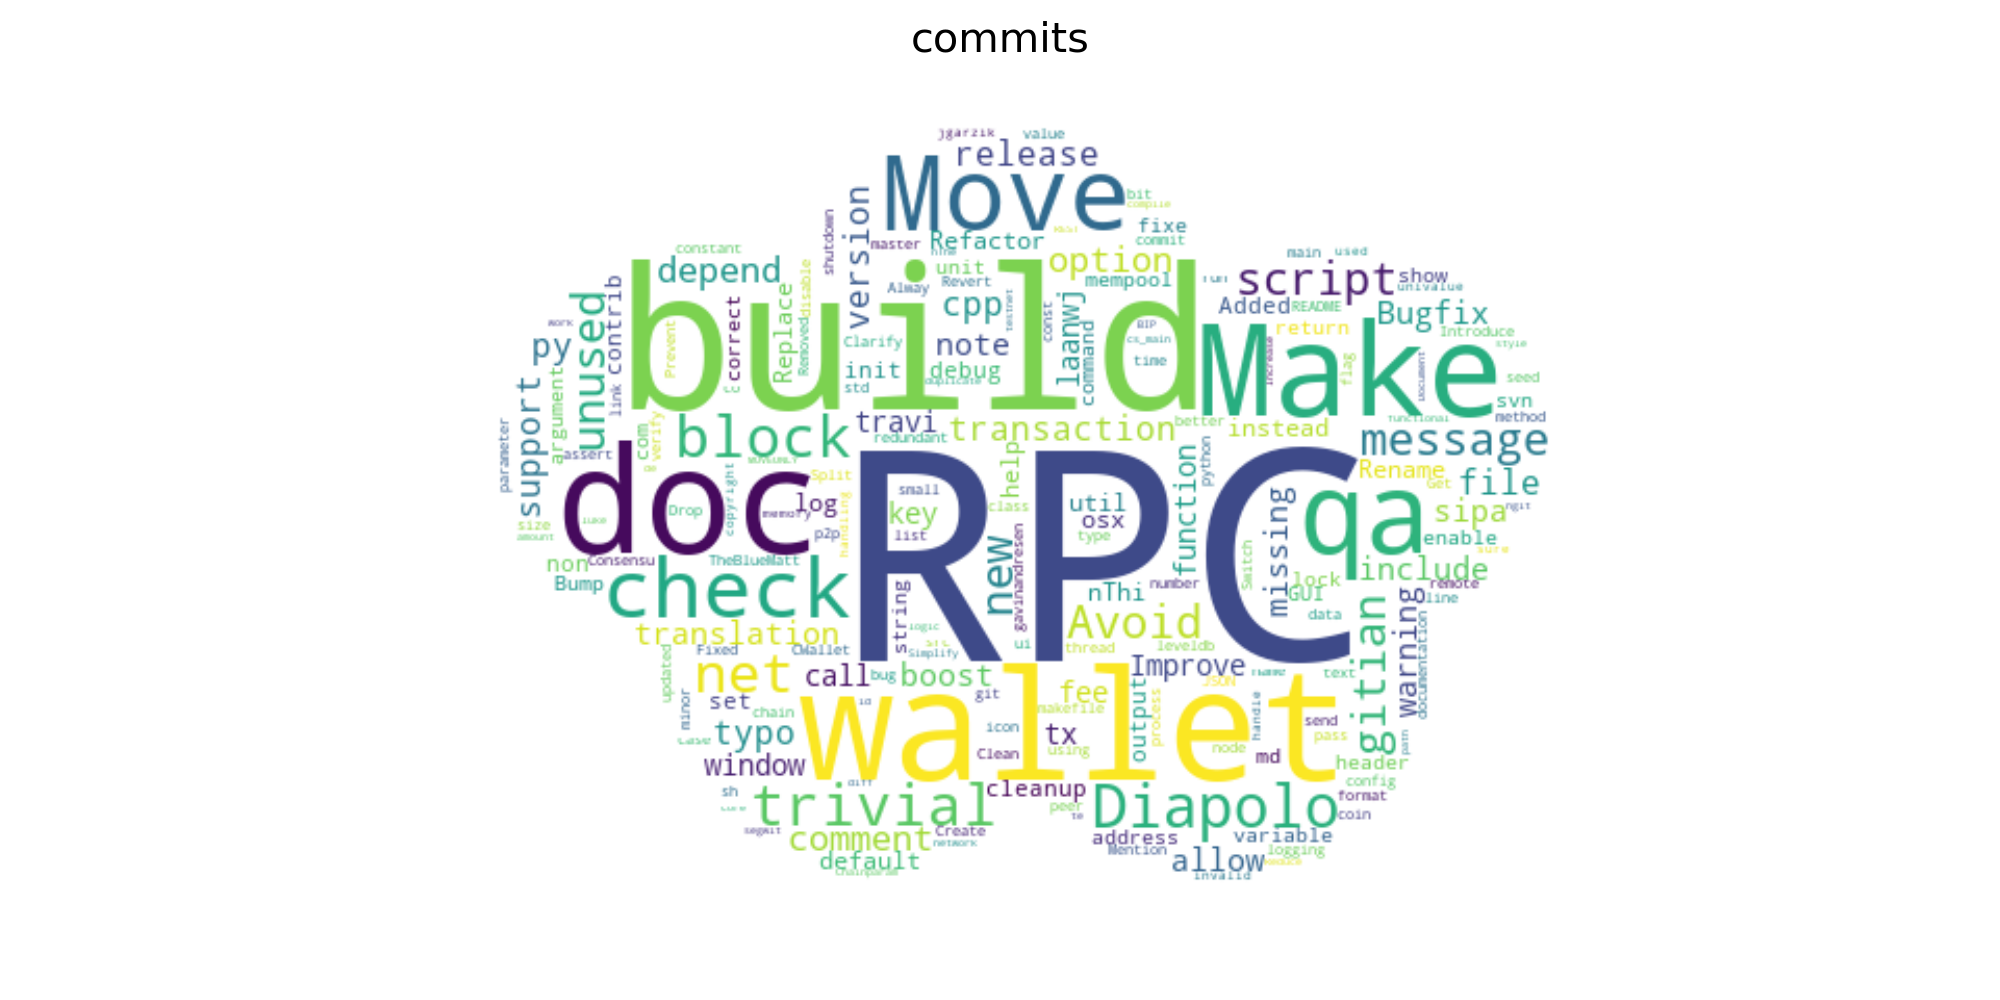
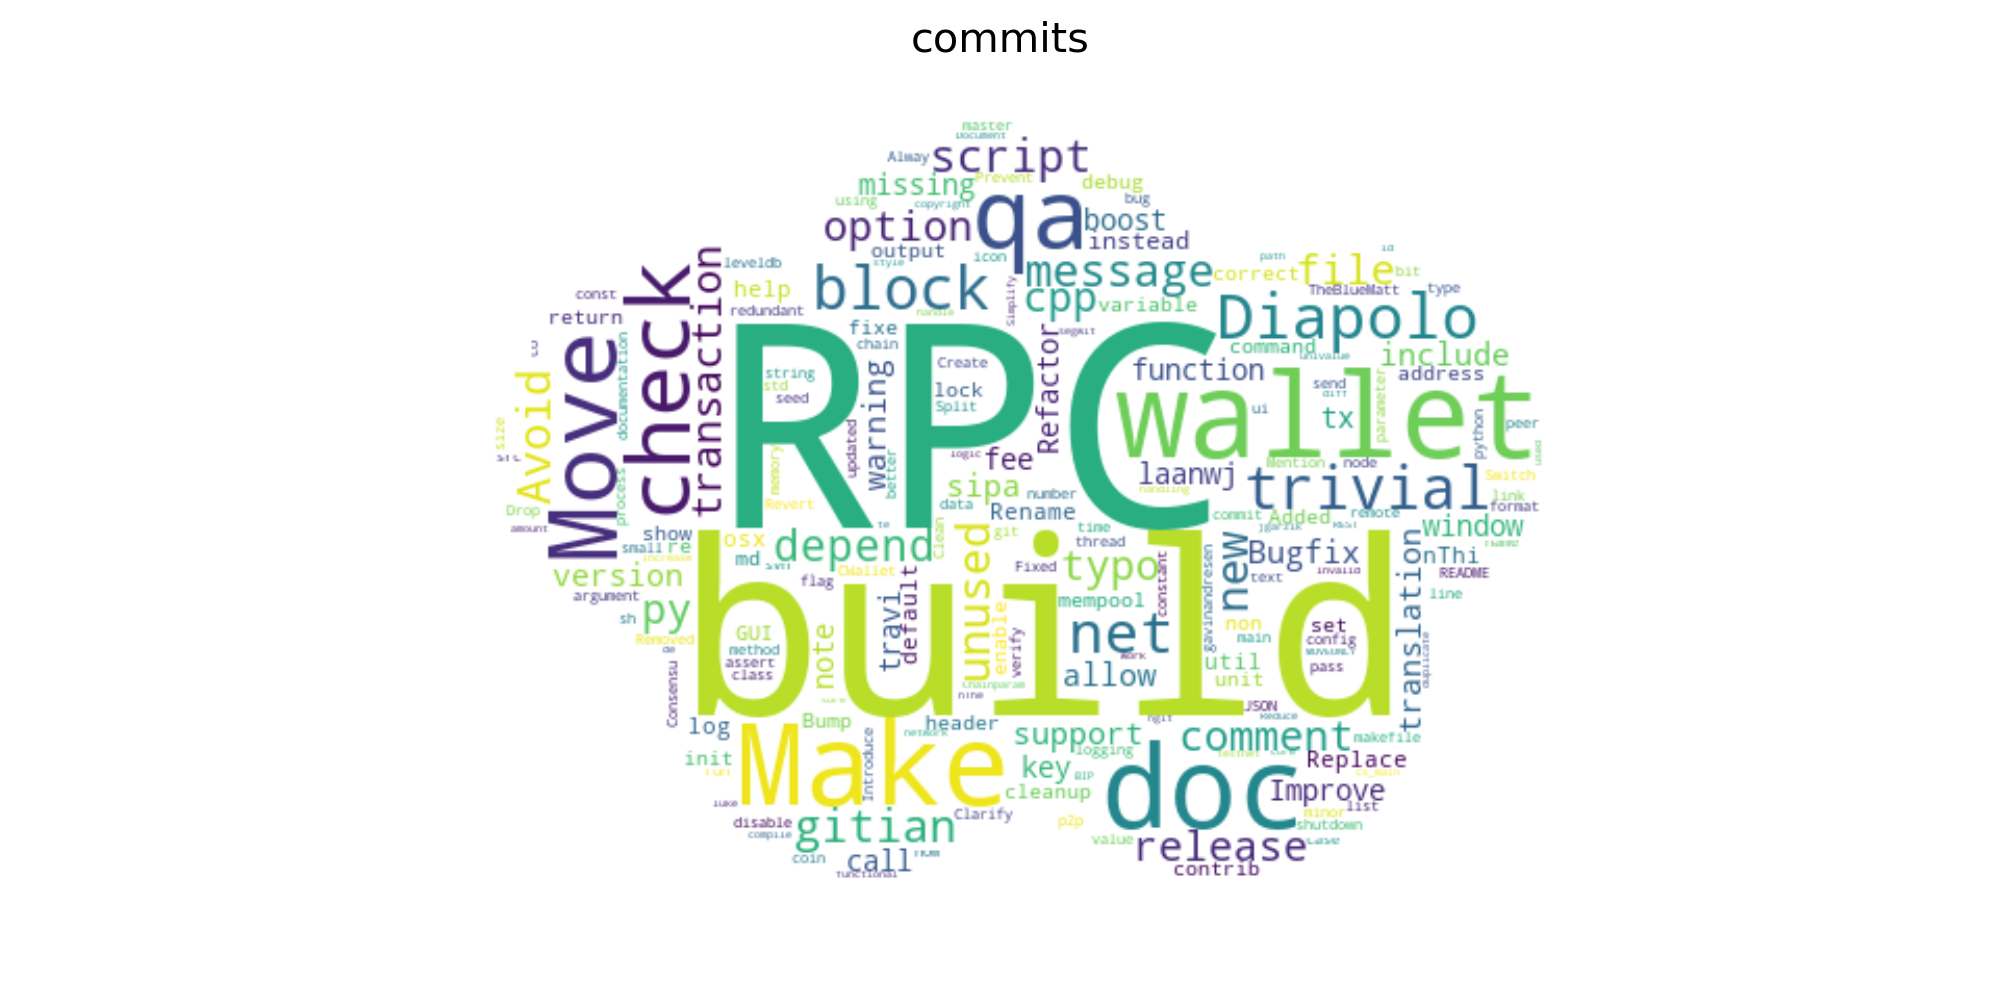
use native stopwords

Changed region(s): [[0.248, 0.124, 0.775, 0.899]]

diff --git a/wordcloud/word_cloud.py b/wordcloud/word_cloud.py
@@ -2,14 +2,12 @@ import numpy as numpy
 import pandas as pd
 from os import path
 from PIL import Image
-from wordcloud import WordCloud, ImageColorGenerator
+from wordcloud import WordCloud, ImageColorGenerator,STOPWORDS
 import matplotlib.pyplot as plt
-from nltk.corpus import stopwords
 import numpy as np
 
 path='../files/bitcoin-bitcoin/'
-
-stopwords = set(stopwords.words('english'))
+stopwords = set(STOPWORDS)
 stopwords.update(['issue','pull', "github", "bitcoin",'bitcoinqt','bitcoind','qt','merge']+['https', 'issue', 'error','reproduce', 'like', 'http']+
 ['fix', 'test', 'update', 'add', 'tests', 'remove', 'use', 'feat']+
 ['x', 'pr', 'branch', 'issue', 'https', 'change', 'one', 'feature', 'request', 'pull', 'fix', 'code', 'changes']+['would','seem','see','seems','th','i\'m'])
